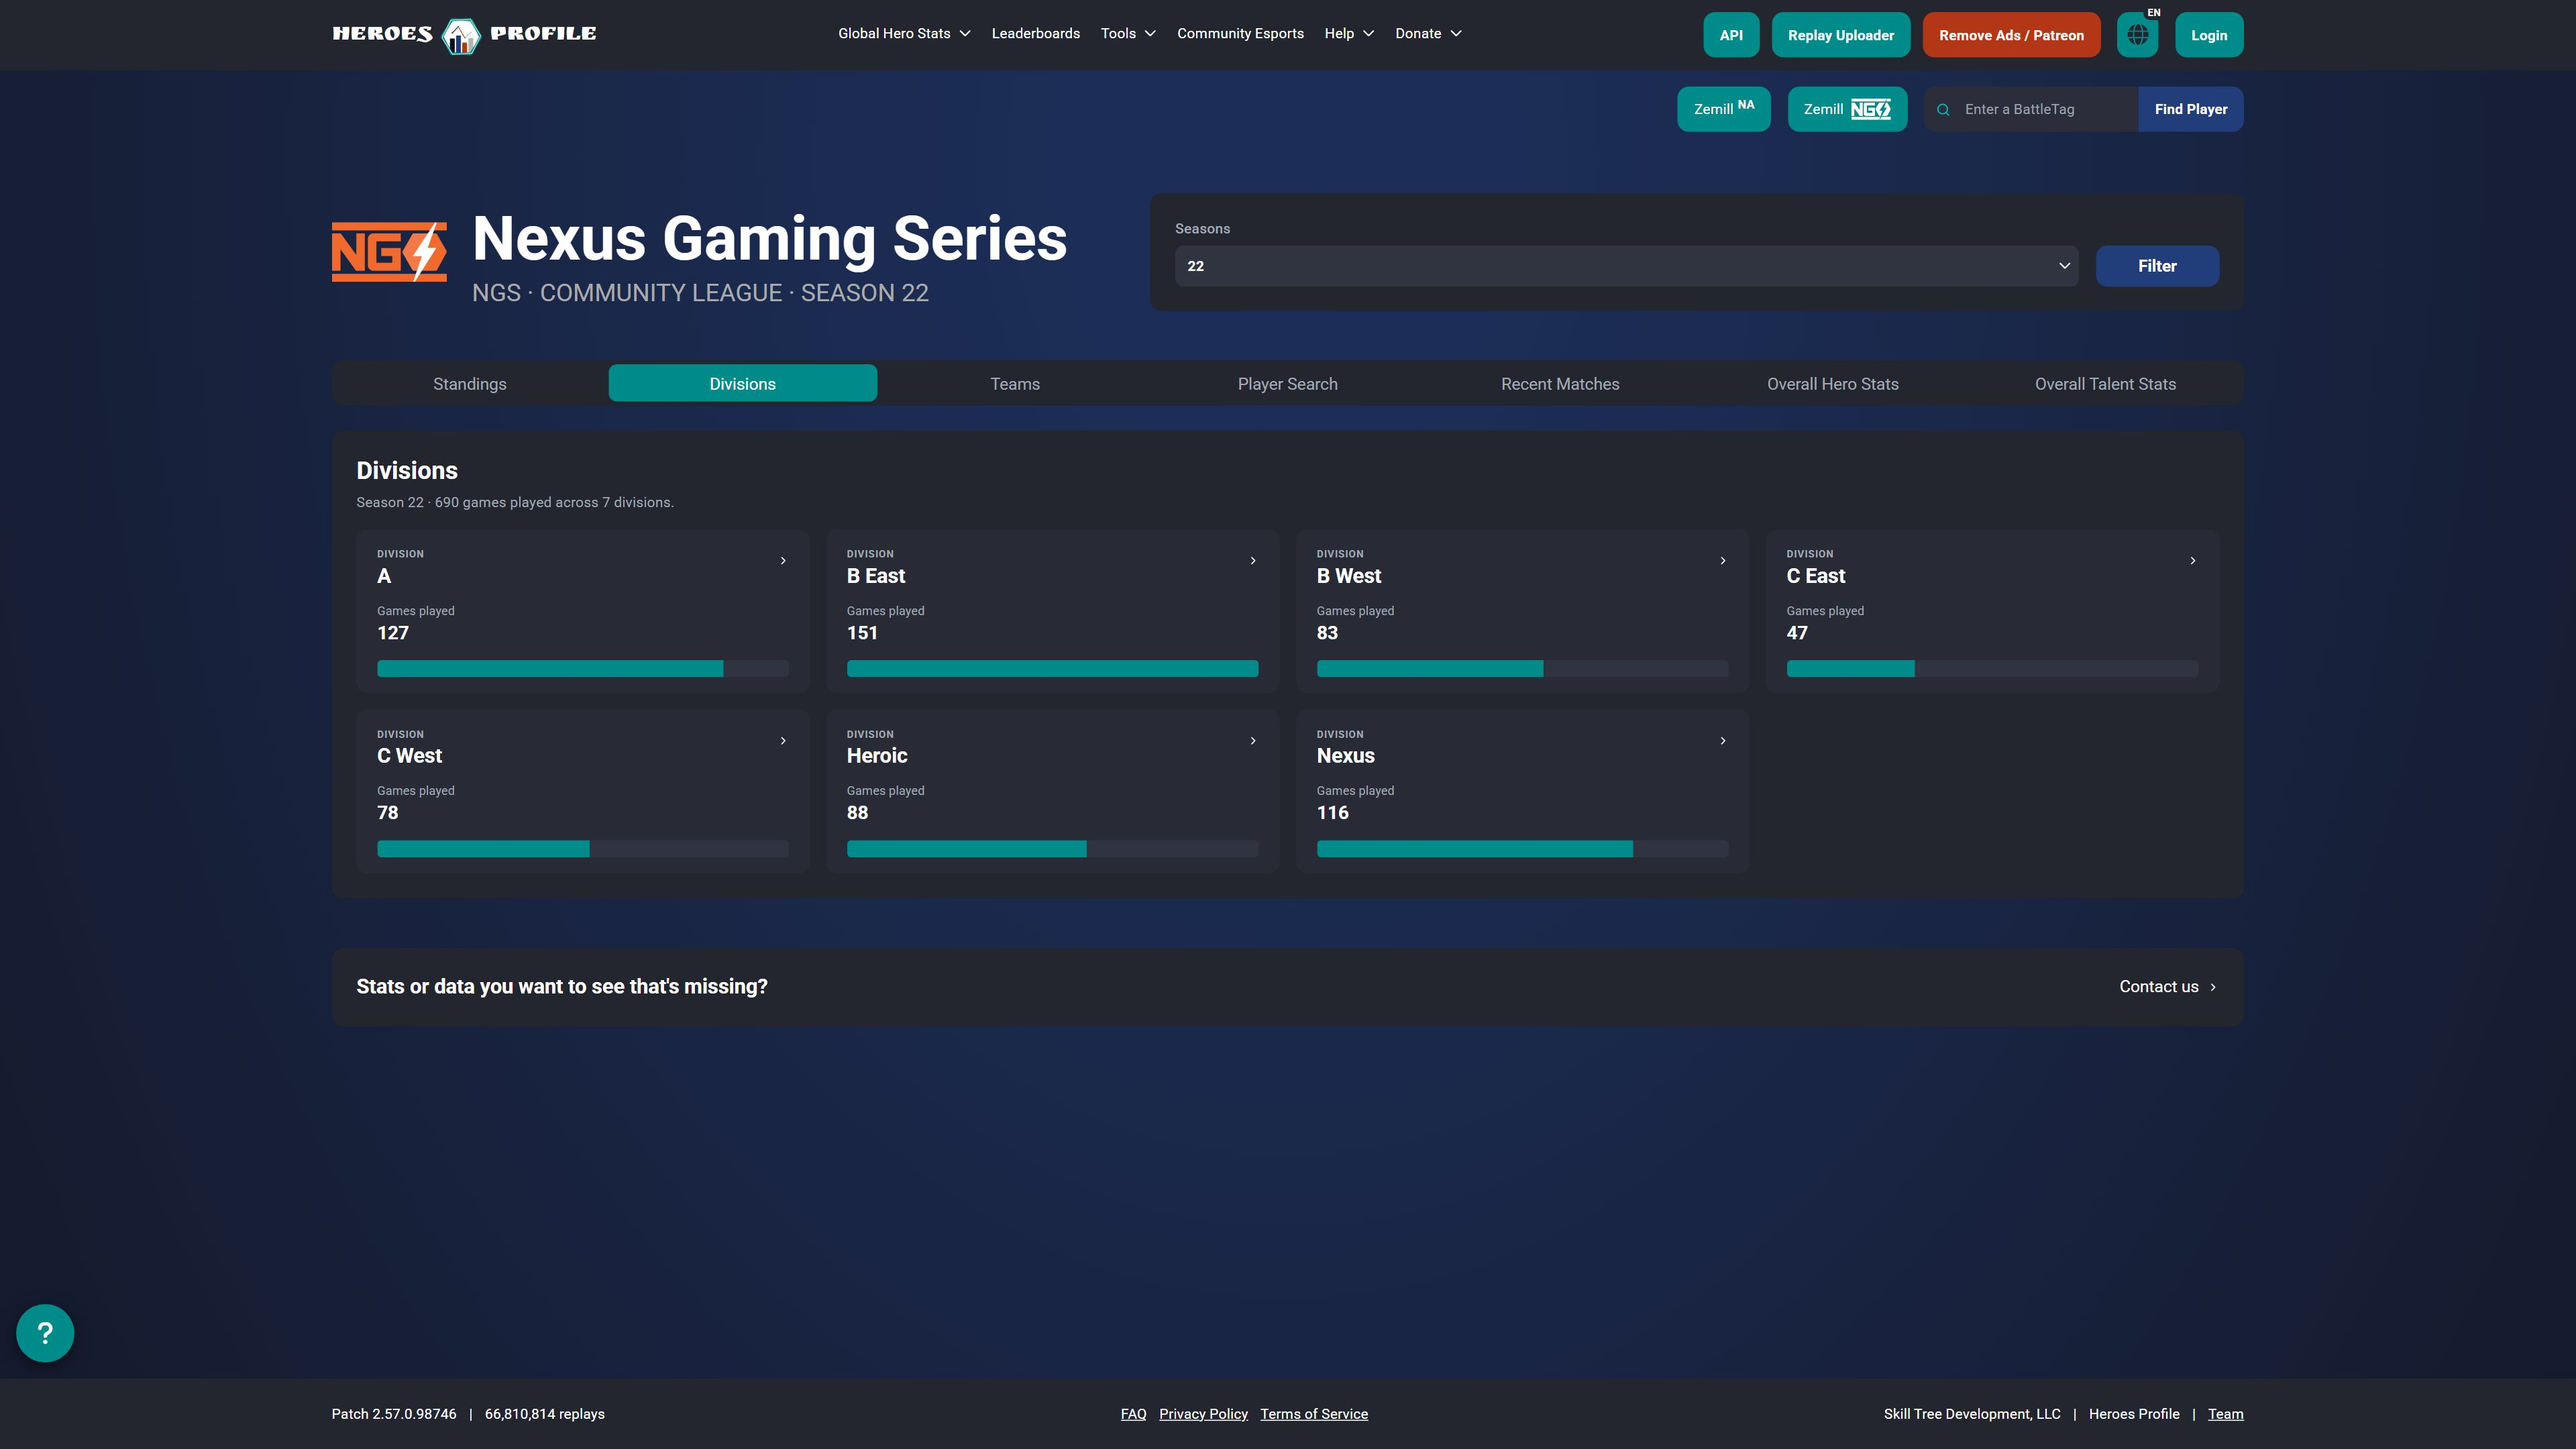
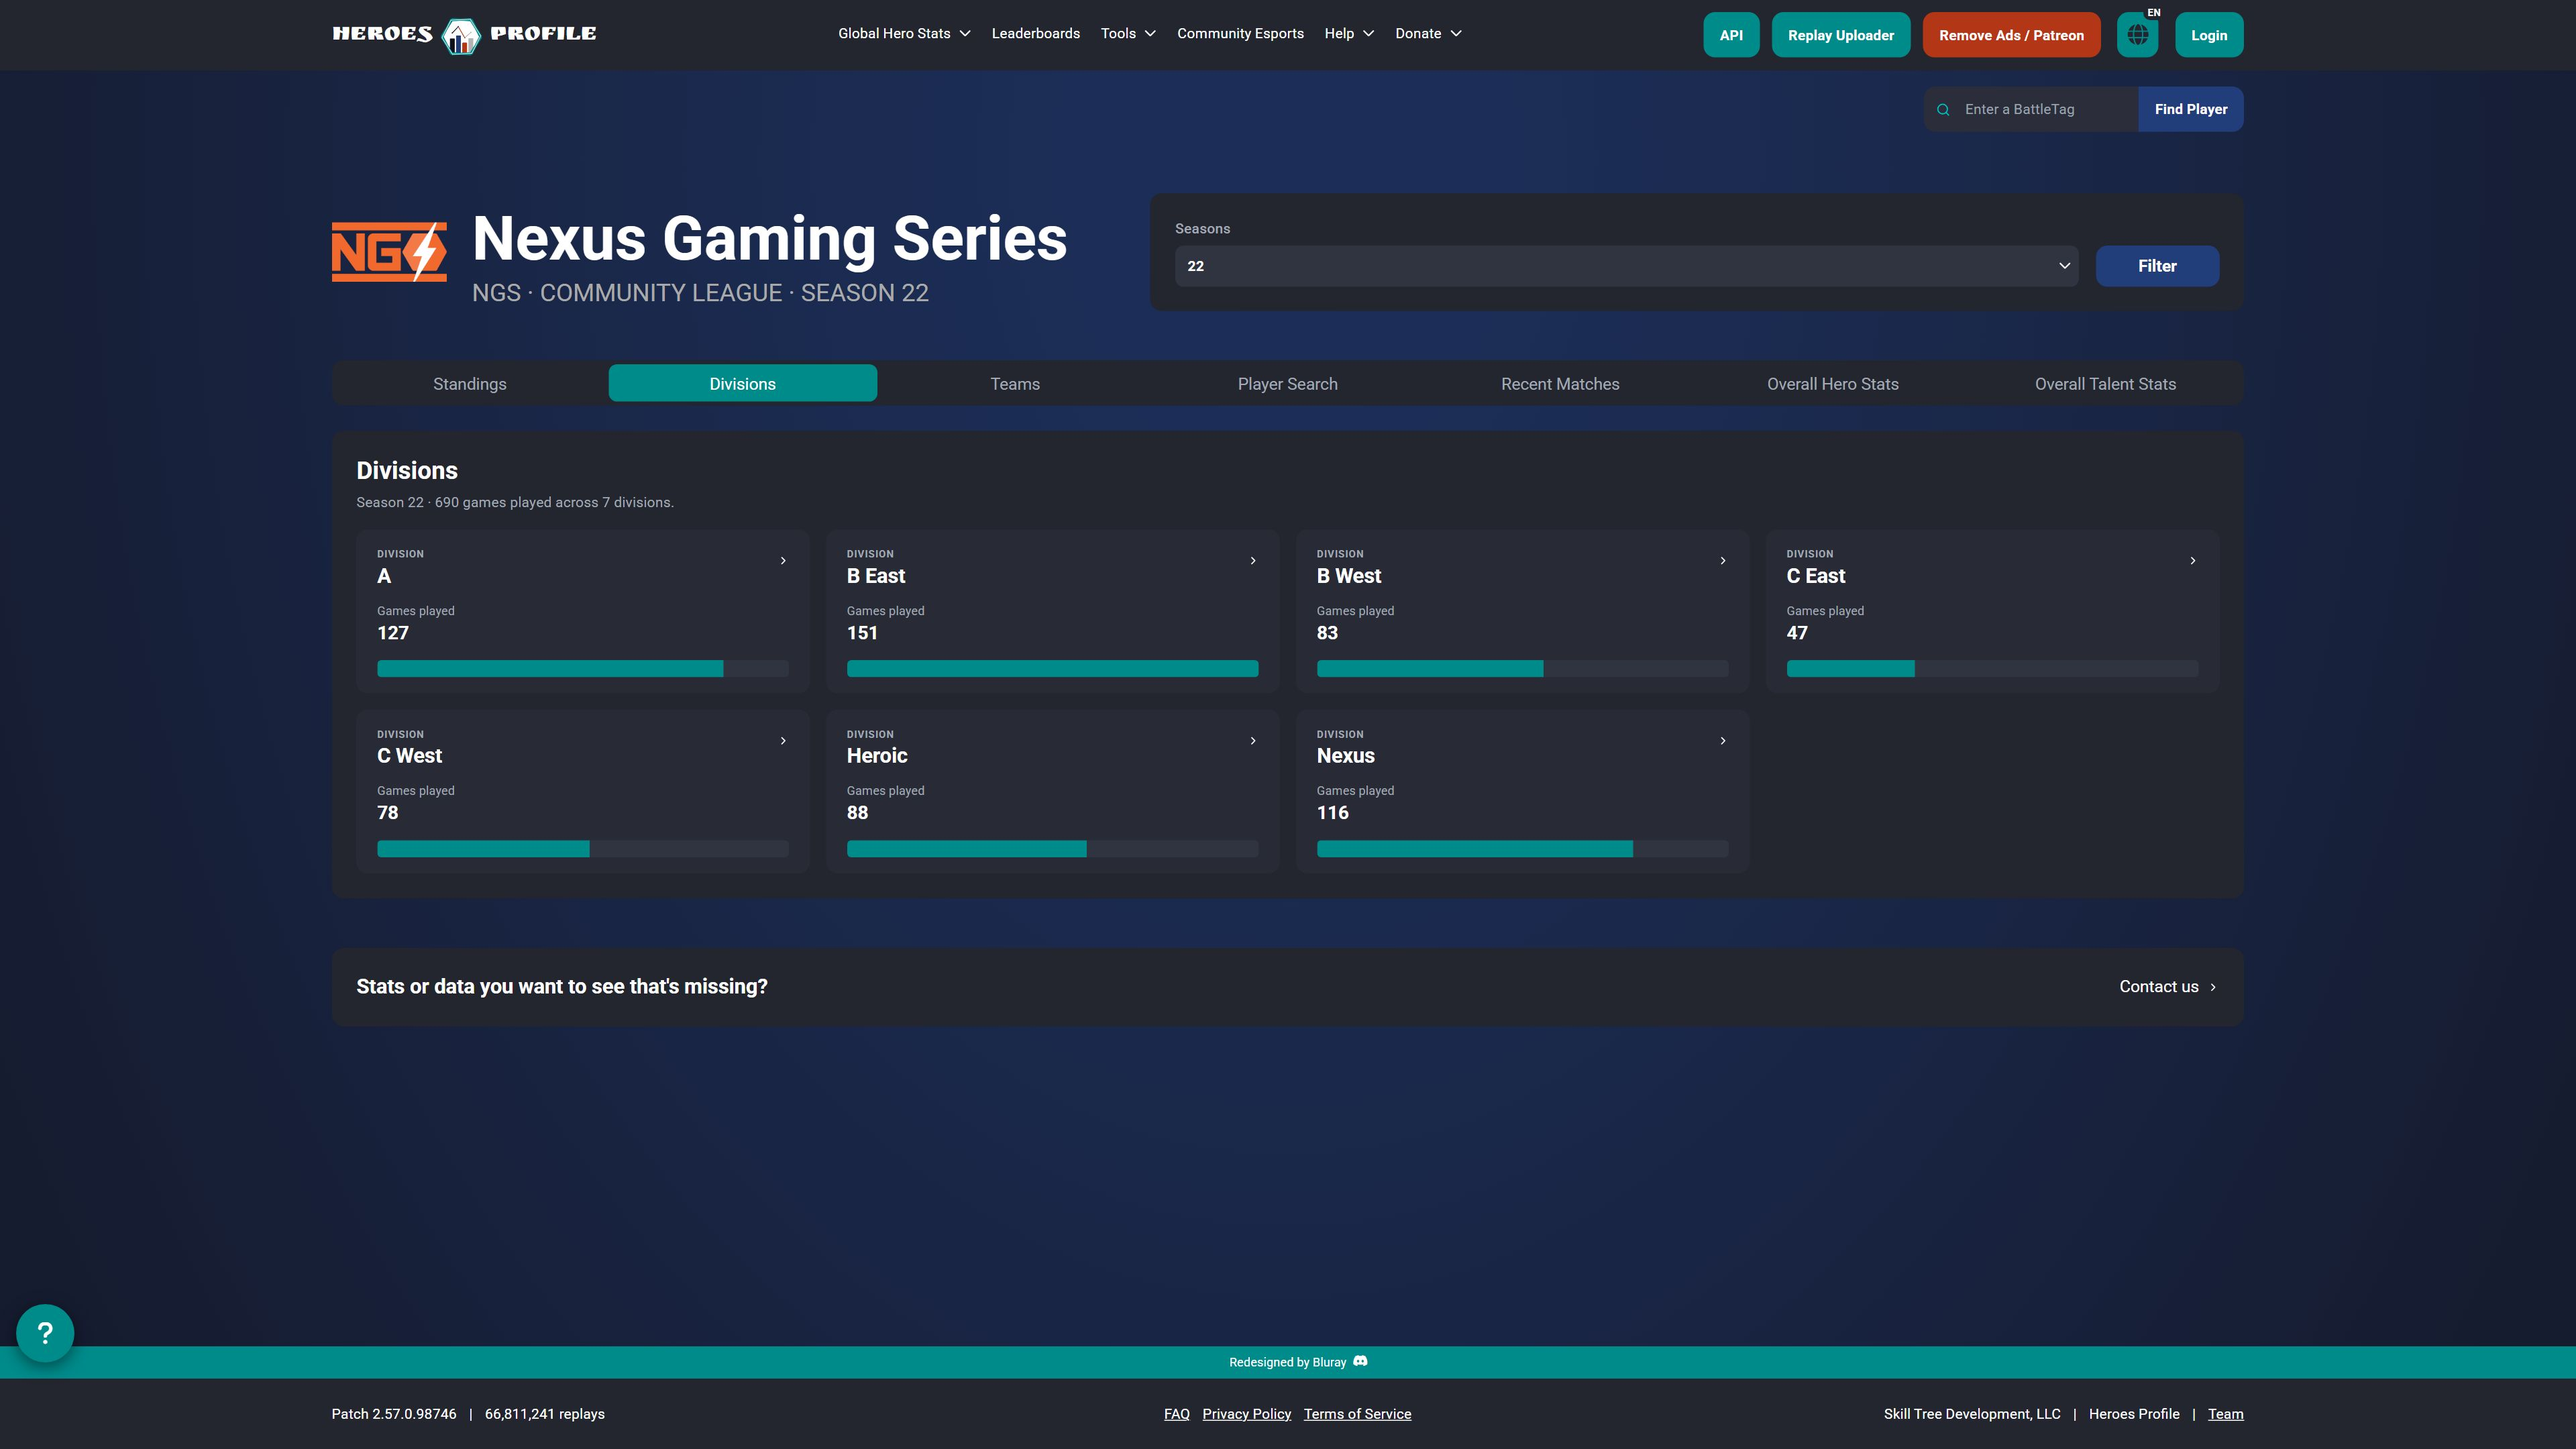
Redesign/2026 compare: NGS Overview and Standings, old NGS player shot styled, Divisions retaken, Community Support dropped from Other

Changed region(s): [[0.0, 0.9306, 1.0, 0.9926], [0.625, 0.062, 0.75, 0.0931]]

diff --git a/resources/js/components/RedesignPage.vue b/resources/js/components/RedesignPage.vue
@@ -394,7 +394,8 @@ export default {
             { key: 'team', label: 'Team' },
           ] },
           { label: 'NGS', items: [
-            { key: 'ngs', label: 'Standings' },
+            { key: 'ngs', label: 'Overview' },
+            { key: 'ngsstandings', label: 'Standings' },
             { key: 'ngsdivisions', label: 'Divisions' },
             { key: 'ngsteams', label: 'Teams' },
             { key: 'ngsplayersearch', label: 'Player Search' },
@@ -424,7 +425,6 @@ export default {
           { label: 'Legal & help', items: [
             { key: 'privacy', label: 'Privacy Policy' },
             { key: 'terms', label: 'Terms of Service' },
-            { key: 'support', label: 'Community Support' },
             { key: 'guidelines', label: 'Streamer Code of Conduct' },
           ] },
           { label: 'API', items: [
